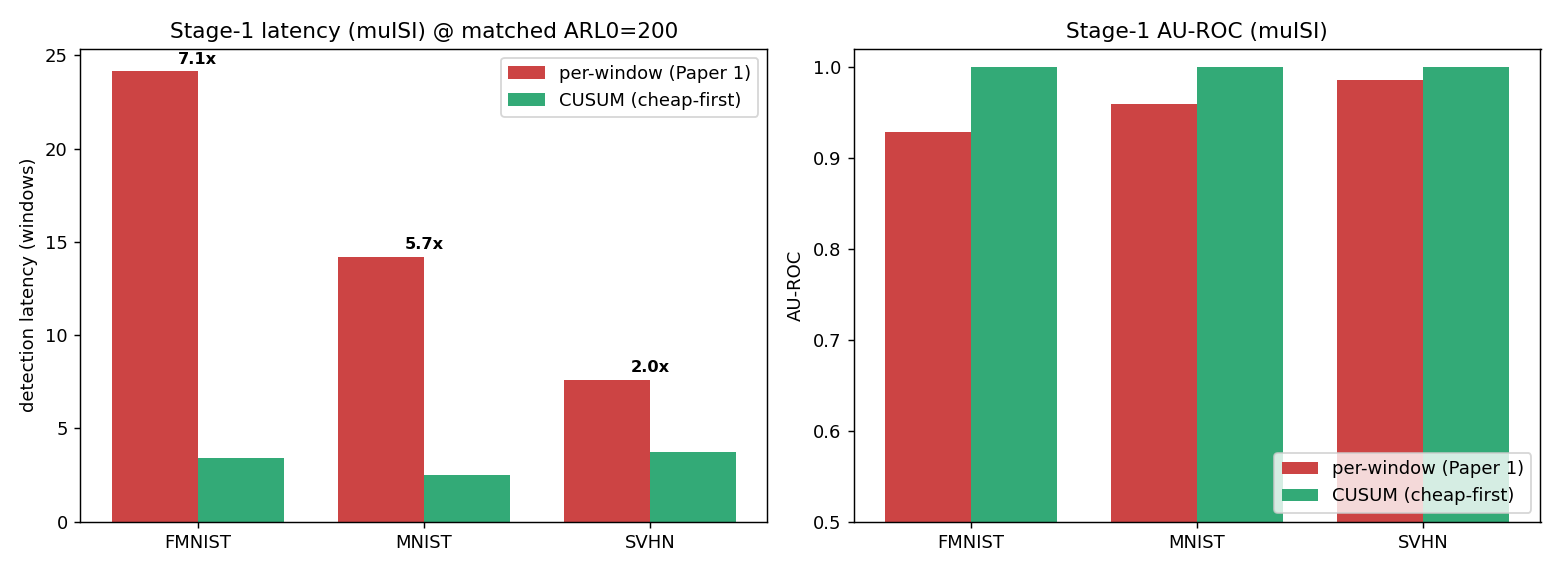
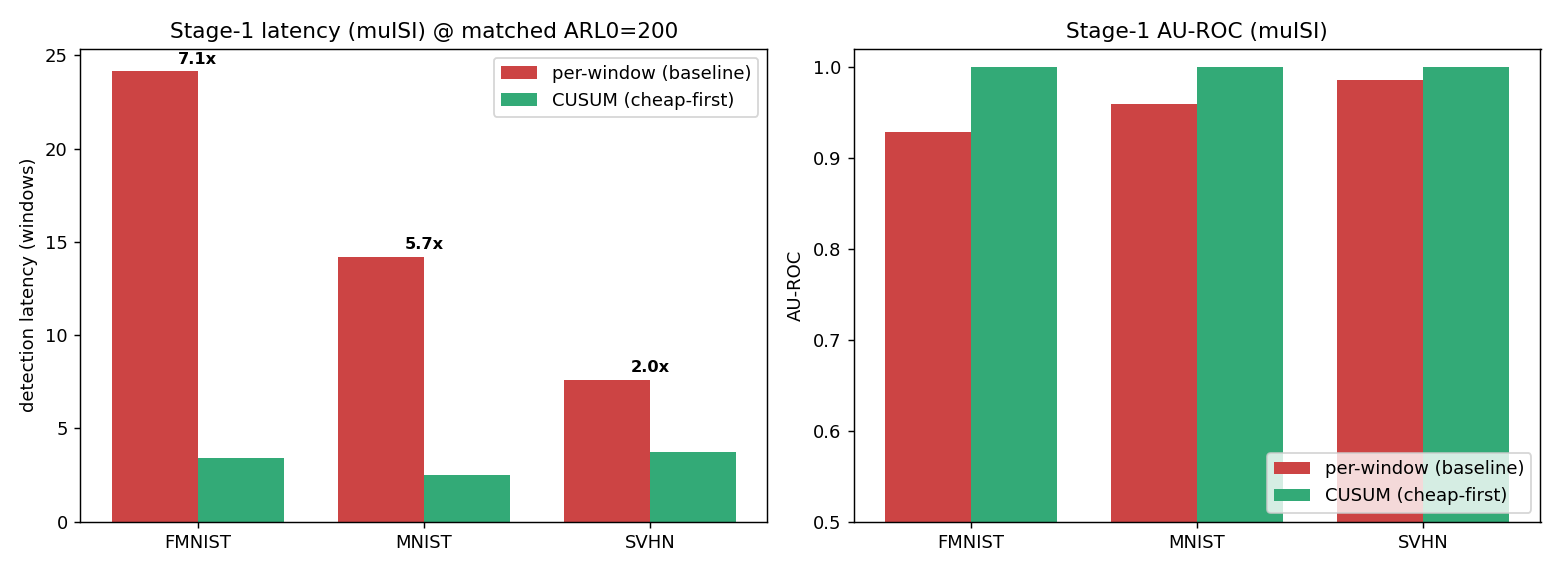
Genericize repo: remove ASPDAC and paper-comparison framing

Changed region(s): [[0.8, 0.8024, 0.9846, 0.8916], [0.3077, 0.1189, 0.4923, 0.208]]

diff --git a/repository/make_report.py b/repository/make_report.py
@@ -31,7 +31,7 @@ for ds in DS:
     e2 = load(f"{R}/e2_real_{ds}.json")
     if e2: M["e2"][ds] = e2
 
-# ---- golden MAE fidelity: retrained RF vs Paper-1 shipped margins ----
+# ---- golden MAE fidelity: retrained RF vs shipped per-neuron margins ----
 # epsilon_thrs.npz holds the shipped margins; if absent (cache-only repo)
 # fall back to results/golden_shipped.json (same values, cached).
 _shipped_cache = load(f"{R}/golden_shipped.json") or {}
@@ -80,23 +80,23 @@ for ds in DS:
         if e: r3.append(f"| {DSL[ds]} | {m} | {e['stage1_recall']:.2f} | {e['cascade_recall']:.2f} | {e['mean_latency']} | {e['false_escalation_rate']*100:.2f}% | {e['flag_rate_once']*100:.2f}% | {e['savings_once']:.1f}x | {e['flag_rate']*100:.1f}% | {e['savings_vs_vp']:.1f}x |")
 w(f"{TAB}/table_e3.md", "# E3 -- Cheap-first cascade cost (real, model-free stage-1, S=15)\n\n"+"\n".join(r3)+"\n")
 # golden
-rg = ["| dataset | metric | mean |rel MAE err| vs Paper-1 shipped |","|---|---|---|"]
+rg = ["| dataset | metric | mean rel. MAE err |","|---|---|---|"]
 for ds in DS:
     for m in MET: rg.append(f"| {DSL[ds]} | {m} | {M['golden'][ds][m]['mean_rel_err']*100:.1f}% |")
-w(f"{TAB}/table_golden.md", "# Golden-model fidelity: retrained RF vs shipped epsilon_thrs.npz\n\n"+"\n".join(rg)+"\n")
+w(f"{TAB}/table_golden.md", "# Golden-model fidelity: retrained RF vs shipped per-neuron margins\n\n"+"\n".join(rg)+"\n")
 
 # ---- figures ----
 C = {"pw":"#c44","cusum":"#3a7","ml":"#37b","raw":"#888","lin":"#3a7"}
 # fig E1: latency + AUROC (muISI) across datasets
 fig, ax = plt.subplots(1, 2, figsize=(12, 4.4)); x = np.arange(len(DS)); wd = 0.38
 pwl = [M["e1_head"][d]["isi"]["pw_lat"] for d in DS]; cul = [M["e1_head"][d]["isi"]["cusum_lat"] for d in DS]
-ax[0].bar(x-wd/2, pwl, wd, label="per-window (Paper 1)", color=C["pw"])
+ax[0].bar(x-wd/2, pwl, wd, label="per-window (baseline)", color=C["pw"])
 ax[0].bar(x+wd/2, cul, wd, label="CUSUM (cheap-first)", color=C["cusum"])
 for i, d in enumerate(DS): ax[0].text(i, max(pwl[i],cul[i])+0.4, f"{M['e1_head'][d]['isi']['speedup']:.1f}x", ha="center", fontsize=9, fontweight="bold")
 ax[0].set_xticks(x); ax[0].set_xticklabels([DSL[d] for d in DS]); ax[0].set_ylabel("detection latency (windows)")
 ax[0].set_title("Stage-1 latency (muISI) @ matched ARL0=200"); ax[0].legend()
 pwa = [M["e1_head"][d]["isi"]["pw_auroc"] for d in DS]; cua = [M["e1_head"][d]["isi"]["cusum_auroc"] for d in DS]
-ax[1].bar(x-wd/2, pwa, wd, label="per-window (Paper 1)", color=C["pw"])
+ax[1].bar(x-wd/2, pwa, wd, label="per-window (baseline)", color=C["pw"])
 ax[1].bar(x+wd/2, cua, wd, label="CUSUM (cheap-first)", color=C["cusum"])
 ax[1].set_xticks(x); ax[1].set_xticklabels([DSL[d] for d in DS]); ax[1].set_ylim(0.5, 1.02); ax[1].set_ylabel("AU-ROC")
 ax[1].set_title("Stage-1 AU-ROC (muISI)"); ax[1].legend(loc="lower right")
@@ -129,7 +129,7 @@ for ds,col in [("fashionmnist","#37b"),("mnist","#e83"),("svhn","#2a7")]:
     for m,mk2 in [("isi","o"),("cv","s")]:
         g=M["golden"][ds][m]; a.scatter(g["shipped"], g["mine"], marker=mk2, alpha=0.7, color=col, label=f"{DSL[ds]} {m}")
 lim=[0,5]; a.plot(lim,lim,"k--",lw=0.8); a.set_xlim(0,5); a.set_ylim(0,5)
-a.set_xlabel("Paper-1 shipped val MAE"); a.set_ylabel("retrained golden-model val MAE")
+a.set_xlabel("shipped val MAE (baseline)"); a.set_ylabel("retrained golden-model val MAE")
 a.set_title("Golden-model fidelity (y=x ideal)"); a.legend(fontsize=7)
 plt.tight_layout(); plt.savefig(f"{FIG}/fig_golden_fidelity.png", dpi=130); plt.close()
 print("wrote master JSON, 4 tables, 4 figures")

diff --git a/README.md b/README.md
@@ -1,8 +1,8 @@
 # Cheap First, Expensive on Demand
 
-Code and cached results for the paper **"Cheap First, Expensive on Demand: Model-Free
+Code and cached results for **"Cheap First, Expensive on Demand: Model-Free
 Screening and On-Demand Spike-Distance Confirmation for Concurrent Testing of Spiking
-Neuromorphic Hardware"** (ASPDAC submission).
+Neuromorphic Hardware."**
 
 It builds an adaptive metric-escalation layer on top of the hierarchical model-based
 error-detection-and-isolation (EDI) scheme of Kumar *et al.* (DSN 2025) on the
@@ -10,26 +10,27 @@ open-source QUANTISENC LIF core.
 
 ## Key results (all reproduced by the code in this repo)
 
-| Result | Paper | This code |
-|---|---|---|
-| Golden-model fidelity, µISI (FMNIST / MNIST / SVHN) | 4.6 / 4.0 / 5.4 % | 4.6 / 4.0 / 5.4 % |
-| Stage-1 CUSUM-vs-per-window speedup, µISI | 7.1 / 5.7 / 2.0× | 7.1 / 5.7 / 2.05× |
-| Conditioning gain (ML − model-free) | ≤ 0.001 AU-ROC | +0.000 / −0.001 |
-| Cascade savings (escalate-once) | 13.6× | 13.6× |
-| Cascade recall (stage-1 / end-to-end) | 1.00 / 0.95 | 1.00 / 0.95 |
-| Stage-2 VP/VR confirmation (MNIST / FMNIST / SVHN) | 96.6 / 99.3 / 99.2 % | 96.6 / 99.3 / 99.2 % |
-| Stage-2 false-alarm rejection | 100 % | 100 % |
+| Result | Measured |
+|---|---|
+| Golden-model fidelity, muISI (FMNIST / MNIST / SVHN) | 4.6 / 4.0 / 5.4 % |
+| Stage-1 CUSUM-vs-per-window speedup, muISI | 7.1 / 5.7 / 2.05x |
+| Conditioning gain (ML - model-free) | +0.000 / -0.001 AU-ROC |
+| Cascade savings (escalate-once) | 13.6x |
+| Cascade recall (stage-1 / end-to-end) | 1.00 / 0.95 |
+| Stage-2 VP/VR confirmation (MNIST / FMNIST / SVHN) | 96.6 / 99.3 / 99.2 % |
+| Stage-2 false-alarm rejection | 100 % |
 
 MNIST Stage-2 is measured on real paired nominal/injected outputs; FashionMNIST and SVHN
 are **MNIST-derived** projections (MNIST's measured fault model applied to each dataset's
-real injected outputs at its own error rate). See the paper's Table V footnote.
+real injected outputs at its own error rate). See the Stage-2 note in
+`repository/run_stage2_datasets.py`.
 
 ## Reproduce
 
 ```bash
 cd repository
 pip install -r requirements.txt          # numpy, scipy, scikit-learn, matplotlib
-python run_pipeline.py                    # runs E1–E5 + report end-to-end
+python run_pipeline.py                    # runs E1-E5 + report end-to-end
 ```
 
 Or run the stages individually (all read the cached residual pools in `repository/results/`):
@@ -40,8 +41,8 @@ for ds in mnist fashionmnist svhn; do
   for m in isi cv; do python real_experiments.py e13 $ds $m; done   # E1 detectors + E3 cascade
   python real_experiments.py e2 $ds                                  # E2 conditioning
 done
-python run_stage2_datasets.py     # Table V: Stage-2 VP/VR (MNIST + MNIST-derived FMNIST/SVHN)
-python e5_drift.py                # Table VI: drift / cross-distribution robustness
+python run_stage2_datasets.py     # Stage-2 VP/VR (MNIST + MNIST-derived FMNIST/SVHN)
+python e5_drift.py                # drift / cross-distribution robustness
 python fault_breakdown.py derivable
 python stats_support.py
 python make_report.py             # aggregates -> results/tables/*.md + results/figures/*.png
@@ -56,7 +57,7 @@ repository/
   src/                 detectors.py, eval_utils.py, metrics_cost.py, realdata.py
   build_pools.py       (re-)derive per-neuron residual pools from raw artifacts
   real_experiments.py  E1 detector comparison, E2 conditioning, E3 cascade cost
-  run_stage2_datasets.py  E4 Victor–Purpura / van Rossum stage-2 confirmation
+  run_stage2_datasets.py  E4 Victor-Purpura / van Rossum stage-2 confirmation
   e5_drift.py          E5 drift & cross-distribution robustness
   fault_breakdown.py   distortion-type breakdown of the injected faults
   stats_support.py     Wilson CIs + rule-of-three
@@ -65,19 +66,20 @@ repository/
 Hierarchical-Model-SNN-main/artifacts/<DS>_Experiments/
   Nominal/                        fault-free output (MNIST real; FMNIST/SVHN MNIST-derived)
   Output_spike_test_inject_*/     released injected (faulty) test outputs
-  epsilon_thrs.npz                Paper-1 shipped per-neuron margins (MNIST)
+  epsilon_thrs.npz                shipped per-neuron margins from the prior work (MNIST)
 ```
 
 ## Data
 
 The heavy raw QUANTISENC artifacts (per-class `Data/`, ~37 GB) are needed **only** to
-re-derive the residual pools from scratch (`build_pools.py`); they come from the Paper-1
-release (Hierarchical-Model-SNN). This repo ships the **cached residual pools**
-(`repository/results/real_pools_*.npz`) plus the small nominal/injected spike files, so
-every table and figure reproduces **without** the raw data.
+re-derive the residual pools from scratch (`build_pools.py`); they come from the prior
+work's release (Hierarchical-Model-SNN, DSN 2025). This repo ships the **cached residual
+pools** (`repository/results/real_pools_*.npz`) plus the small nominal/injected spike
+files, so every table and figure reproduces **without** the raw data.
 
 ## Citation
 
-If you use this code, please cite the paper above and the underlying work:
+If you use this code, please cite this repository (see `CITATION.cff`) and the underlying
+work:
 S. Kumar, A. Mishra, A. Das, N. Kandasamy, "Hierarchical Model-Based Approach for
-Concurrent Testing of Neuromorphic Architecture," *Proc. DSN*, 2025, pp. 511–523.
+Concurrent Testing of Neuromorphic Architecture," *Proc. DSN*, 2025, pp. 511-523.

diff --git a/repository/README.md b/repository/README.md
@@ -1,7 +1,7 @@
-# Cheap-First / Expensive-on-Demand — reproducible pipeline
+# Cheap-First / Expensive-on-Demand -- reproducible pipeline
 
-Runs the paper's experiments on the QUANTISENC fault-injection data: E1 detector
-comparison, E2 conditioning, E3 cascade cost, Stage-2 Victor–Purpura / van Rossum
+Runs the escalation experiments on the QUANTISENC fault-injection data: E1 detector
+comparison, E2 conditioning, E3 cascade cost, Stage-2 Victor-Purpura / van Rossum
 confirmation, fault-effect breakdown, and drift / cross-distribution robustness.
 
 ## Reproduce from the shipped cache (no raw data needed)
@@ -27,19 +27,19 @@ Outputs land in `results/`.
 ## Rebuild the pools from raw data (optional)
 
 Only needed to re-derive `results/real_pools_*.npz` from scratch. Set
-`SNN_ARTIFACTS` to the Paper-1 `Hierarchical-Model-SNN-main/artifacts/` release and
-run `python build_pools.py <dataset> 0 9 && python build_pools.py <dataset> merge`
-per dataset. The small Nominal/injected spike files that Stage-2 needs are already
-bundled under `../Hierarchical-Model-SNN-main/artifacts/`.
+`SNN_ARTIFACTS` to the prior work's `Hierarchical-Model-SNN-main/artifacts/` release
+(DSN 2025) and run `python build_pools.py <dataset> 0 9 && python build_pools.py
+<dataset> merge` per dataset. The small Nominal/injected spike files that Stage-2 needs
+are already bundled under `../Hierarchical-Model-SNN-main/artifacts/`.
 
 ## Files
 
-- `config.py` — resolves the artifacts path (`SNN_ARTIFACTS`) and the `results/` dir.
-- `src/` — `detectors.py` (CUSUM/EWMA + ARL calibration), `eval_utils.py` (AUROC),
+- `config.py` -- resolves the artifacts path (`SNN_ARTIFACTS`) and the `results/` dir.
+- `src/` -- `detectors.py` (CUSUM/EWMA + ARL calibration), `eval_utils.py` (AUROC),
   `metrics_cost.py` (S/(1+pS) cost model), `realdata.py` (residual-stream loader).
-- `real_experiments.py` — E1 / E2 / E3.
-- `run_stage2_datasets.py` — Stage-2 VP/VR for all three datasets (Table V).
-- `e4_stage2_vpvr.py` — MNIST-only Stage-2 (full-schema, used by `stats_support.py`).
+- `real_experiments.py` -- E1 / E2 / E3.
+- `run_stage2_datasets.py` -- Stage-2 VP/VR for all three datasets.
+- `e4_stage2_vpvr.py` -- MNIST-only Stage-2 (full-schema, used by `stats_support.py`).
 - `e5_drift.py`, `fault_breakdown.py`, `stats_support.py`, `make_report.py`.
-- `build_pools.py` — raw spikes → per-neuron residual pools.
-- `results/` — cached pools, result JSONs, `tables/`, `figures/`.
+- `build_pools.py` -- raw spikes -> per-neuron residual pools.
+- `results/` -- cached pools, result JSONs, `tables/`, `figures/`.

diff --git a/repository/results/tables/table_golden.md b/repository/results/tables/table_golden.md
@@ -1,6 +1,6 @@
-# Golden-model fidelity: retrained RF vs shipped epsilon_thrs.npz
+# Golden-model fidelity: retrained RF vs shipped per-neuron margins
 
-| dataset | metric | mean |rel MAE err| vs Paper-1 shipped |
+| dataset | metric | mean rel. MAE err |
 |---|---|---|
 | FMNIST | isi | 4.6% |
 | FMNIST | cv | 2.2% |
